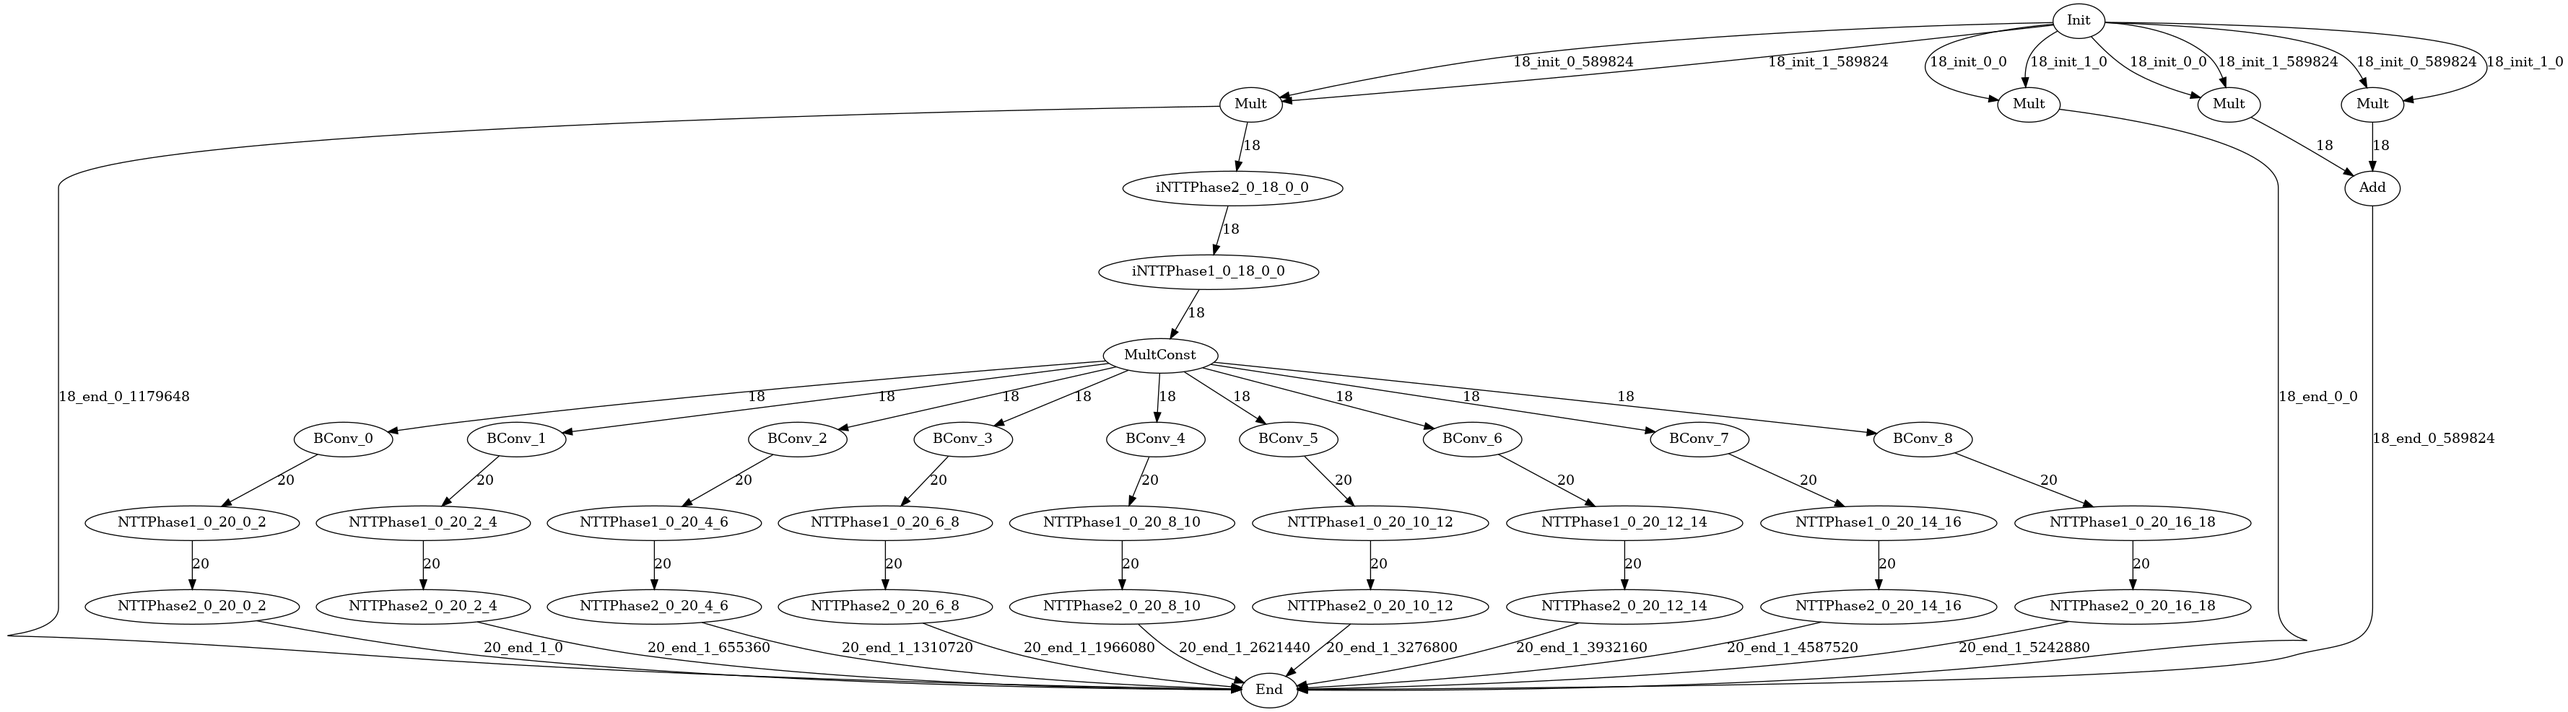
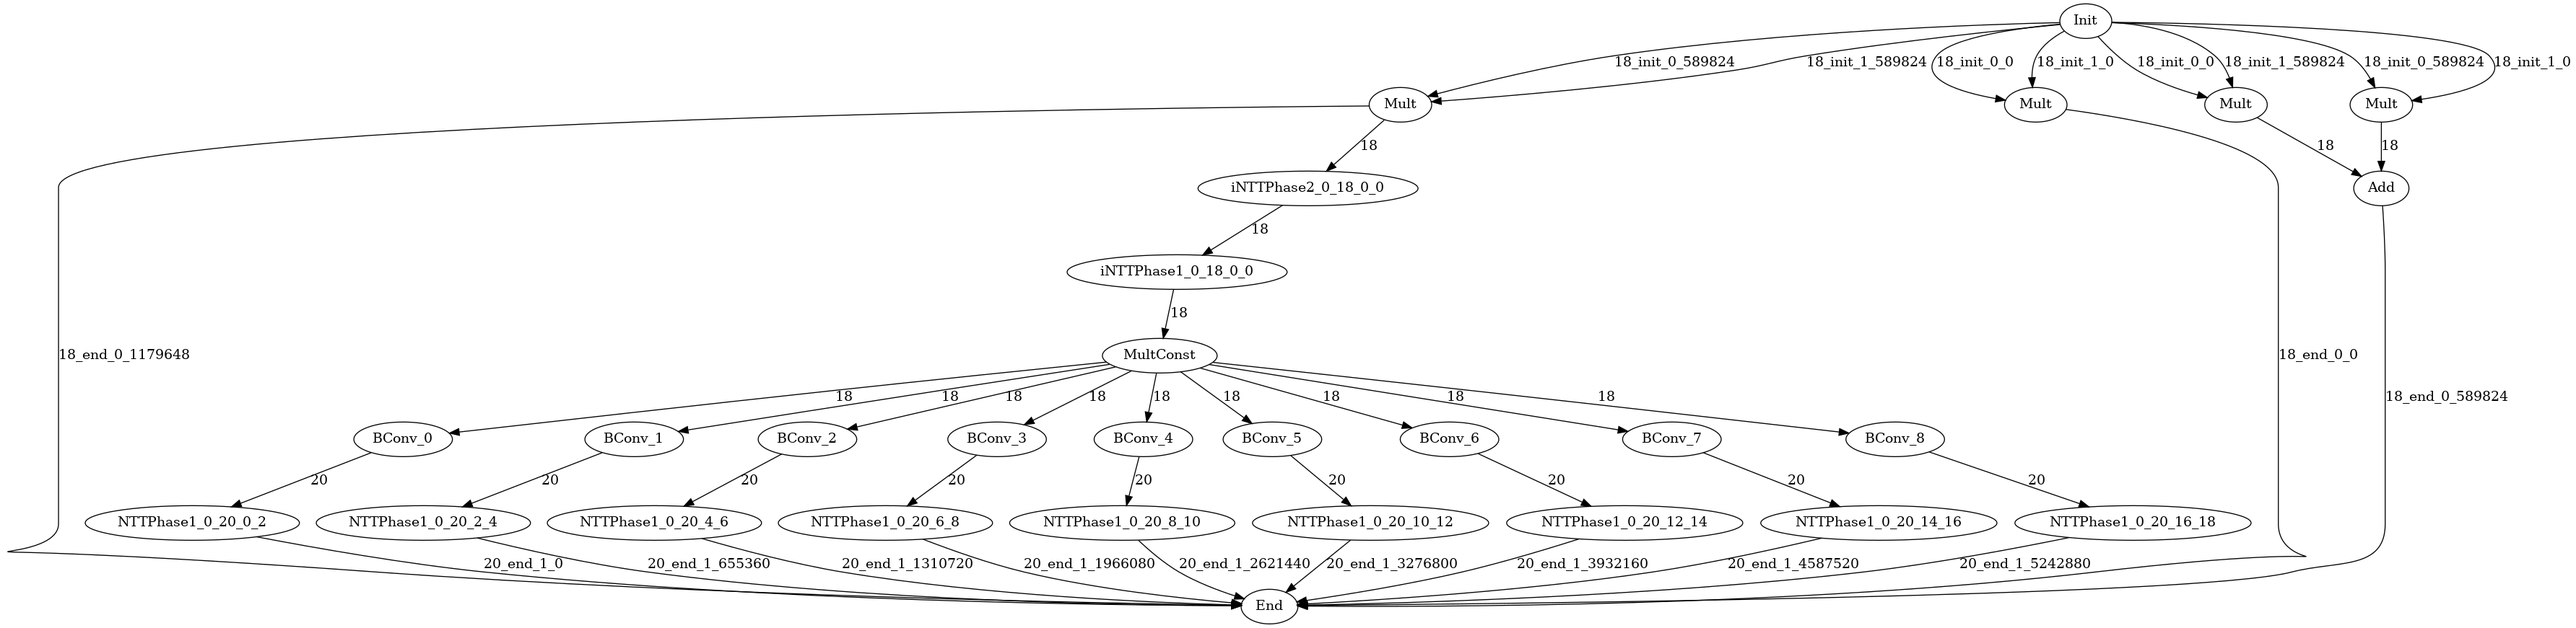
wip: cleanup ElemLimb2

diff --git a/polyfhe/engine/codegen/cuda_codegen.cpp b/polyfhe/engine/codegen/cuda_codegen.cpp
@@ -322,7 +322,7 @@ void CudaCodegen::generate_NTT_ElemLimb(
                  "shared, reg, i);\n";
         } else {
             w << "d_poly_inwt_radix8_phase2(params, params->L, 0, "
-                 "shared, reg, i);\n";
+                 "shared, reg, tid);\n";
         }
     }
 }
@@ -724,10 +724,13 @@ void CudaCodegen::generate_kernel_defs(
             // ==============================
             w << "extern __shared__ uint64_t shared[];\n";
             w << "uint64_t reg[8];\n";
+
+            auto first_node = subgraph->get_nodes()[0];
+
+            // TODO
             w << "uint64_t *in = "
               << subgraph->get_nodes()[0]->get_in_edges()[0]->get_name()
               << ";\n";
-            // TODO: out node
             const int n_subnodes = subgraph->get_nodes().size();
             w << "uint64_t *out = "
               << subgraph->get_nodes()[n_subnodes - 1]
@@ -735,21 +738,45 @@ void CudaCodegen::generate_kernel_defs(
                      ->get_name()
               << ";\n";
 
-            w << "for (size_t i = blockIdx.x * blockDim.x + threadIdx.x; i "
-                 "< "
-                 "params->L * params->N / 8; i += blockDim.x * gridDim.x)";
-            w.block_begin();
-            w << "size_t batch_idx = i / (params->N / 8);\n";
-            // TODO: use i
-            // 今の実装だとthreadが十分にあるときしか正しくうごかない
-            w << "\n// Load data to register\n";
-            w << "#pragma unroll\n";
-            w << "for (int l = 0; l < 8; l++) {\n";
-            w << "    reg[l] = *(in + blockIdx.x * blockDim.x * 8 + "
-                 "threadIdx.x * 8 + l);\n";
-            w << "}\n";
-            w << "__syncthreads();\n";
+            bool requires_load_to_reg = true;
+            if (first_node->get_op_type() == core::OpType::NTTPhase2) {
+                requires_load_to_reg = false;
+            }
+
+            int start_limb = first_node->get_start_limb();
+            int end_limb = first_node->get_end_limb();
+            for (auto node : subgraph->get_nodes()) {
+                if (node->get_start_limb() != start_limb) {
+                    LOG_ERROR("start limb doesn't match: %s\n",
+                              node->get_op_name().c_str());
+                }
+                if (node->get_end_limb() != end_limb) {
+                    LOG_ERROR("end limb doesn't match: %s\n",
+                              node->get_op_name().c_str());
+                }
+            }
+
+            w << "const int start_limb = " << start_limb << ";\n";
+            w << "const int end_limb = " << end_limb << ";\n";
             w << "const size_t n_tower = params->N / 8;\n";
+
+            w << "for (size_t tid = blockIdx.x * blockDim.x + threadIdx.x; "
+              << "tid < (end_limb - start_limb) * n_tower; "
+              << "tid += blockDim.x * gridDim.x)";
+            w.block_begin();
+            w << "size_t batch_idx = tid / n_tower;\n";
+
+            if (requires_load_to_reg) {
+                w << "\n// Load data to register\n";
+                w << "#pragma unroll\n";
+                w << "for (int l = 0; l < 8; l++)";
+                w.block_begin();
+                w << "reg[l] = *(in + blockIdx.x * blockDim.x * 8 + "
+                     "threadIdx.x * 8 + l);\n";
+                w.block_end();
+                w << "__syncthreads();\n";
+            }
+
             for (auto node : subgraph->get_nodes()) {
                 w << "\n// " << node->get_op_name() << "\n";
                 core::OpType op_type = node->get_op_type();

diff --git a/example/ckks_HMult/example.py b/example/ckks_HMult/example.py
@@ -50,17 +50,17 @@ for beta_idx in range(prm.get_beta(prm.L - 1)):
         exclude_start=prm.alpha * beta_idx,
         exclude_end=prm.alpha * (beta_idx + 1),
     )
-    nttp2_after_bconv = pf.ntt(
-        nttp1_after_bconv,
-        f"NTTP2{beta_idx}",
-        if_forward=True,
-        if_phase1=False,
-        start_limb=0,
-        end_limb=prm.L + prm.K,
-        exclude_start=prm.alpha * beta_idx,
-        exclude_end=prm.alpha * (beta_idx + 1),
-    )
-    res = pf.end(nttp2_after_bconv, 1, prm.N * (prm.L + prm.K) * beta_idx)
+    # nttp2_after_bconv = pf.ntt(
+    #     nttp1_after_bconv,
+    #     f"NTTP2{beta_idx}",
+    #     if_forward=True,
+    #     if_phase1=False,
+    #     start_limb=0,
+    #     end_limb=prm.L + prm.K,
+    #     exclude_start=prm.alpha * beta_idx,
+    #     exclude_end=prm.alpha * (beta_idx + 1),
+    # )
+    res = pf.end(nttp1_after_bconv, 1, prm.N * (prm.L + prm.K) * beta_idx)
     target.append(res)
 res_axax = pf.end(mult_axax, 0, 0)
 res_axbx = pf.end(add_axbx, 0, prm.N * prm.L)
